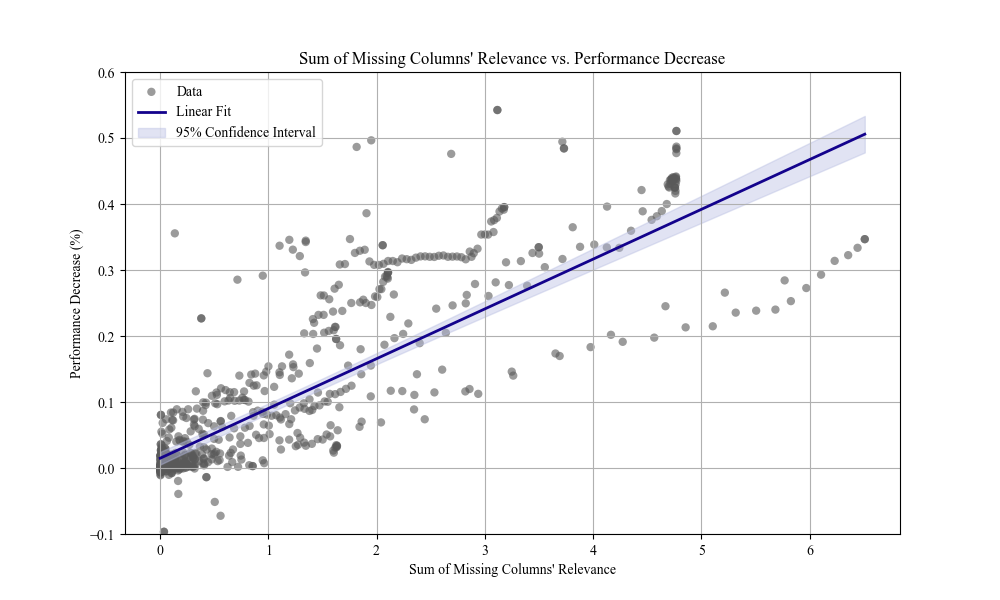
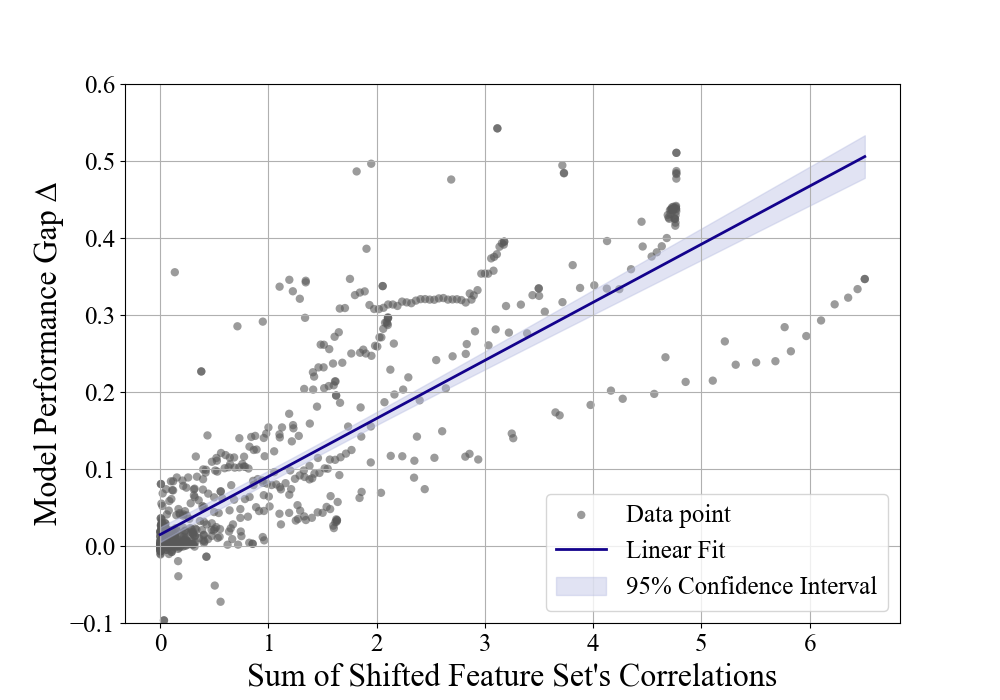
1.30

diff --git a/model/utils.py b/model/utils.py
@@ -94,10 +94,9 @@ def tabular_llm(dataset, model, train_set, test_sets):
         dataset_metadata_path = "../dataset/"+ dataset +"/dataset-metadata.json"
         metadata_path = "../dataset/"+ dataset + "/metadata.json"
 
-        # 检查两个文件是否存在
-        if not (os.path.isfile(dataset_metadata_path) and os.path.isfile(metadata_path)):
-            print("Files do not exist, downloading the dataset...")
-            download_metadata(dataset)
+        # if not (os.path.isfile(dataset_metadata_path) and os.path.isfile(metadata_path)):
+        #     print("Files do not exist, downloading the dataset...")
+        #     download_metadata(dataset)
 
         tabllm = TabLLM()
 

diff --git a/model/tabularLLM/evaluating/light.py b/model/tabularLLM/evaluating/light.py
@@ -12,7 +12,7 @@ class FewShotModelTester():
     def __init__(
         self, 
         name, 
-        model='unipred_state.pt',
+        model='light_state.pt',
         model_path=DEFAULT_MODEL_PATH,
         path=DEFAULT_DATASET_SAVING_PATH,
         output_type='Default', 

diff --git a/run_experiment.py b/run_experiment.py
@@ -1,6 +1,5 @@
 import numpy as np
 import pandas as pd
-from astropy.modeling.tabular import tabular_model
 from sklearn.model_selection import train_test_split
 import argparse
 import json

diff --git a/README.md b/README.md
@@ -132,7 +132,7 @@ You can their details from their papers or **[LAMDA-TALENT](https://github.com/q
 
 #### Tabular LLMs
 1. **[TabLLM](https://arxiv.org/abs/2210.10723)**: A framework that leverages LLMs for efficient tabular data classification.
-2. **[UniPredict](https://arxiv.org/abs/2310.03266)**: A framework that firstly trains on multiple datasets to acquire a rich repository of prior knowledge. UniPredict-Light model that TabFSBench used is available at [Google Drive](https://drive.google.com/file/d/1ABsv0C9HSJ9-M3kpkGRIFEw-4ebKdA3h/view?usp=sharing).
+2. **[UniPredict](https://arxiv.org/abs/2310.03266)**: A framework that firstly trains on multiple datasets to acquire a rich repository of prior knowledge. UniPredict-Light model that TabFSBench used is available at [Google Drive](https://drive.google.com/file/d/1ABsv0C9HSJ9-M3kpkGRIFEw-4ebKdA3h/view?usp=sharing). After downloading the model, place it in `Tabular-Bench/model/tabularLLM/files/unified/models` and rename it to `light_state.pt`.
 
 ### How to Add New Models
 
@@ -144,9 +144,14 @@ TabFSBench provides two methods to evaluate new model on feature-shift experimen
    - Add the method name in the `./model/utils.py`.
    
 ## Experimental Results
-**1. Most models are not robust to feature shifts.**
-![image-20250123120740238](https://s2.loli.net/2025/01/23/O8cApToUu1gLqBV.png)
-**2. Some models exist to sacrifice performance for better robustness.**\
-**3. Closed-environment performance is roughly linearly related to feature-shift performance.**
+**1. Most models have the limited applicability in feature-shift scenarios.**
+<img src="./img/table3.png"  width="1000px">
+
+**2. Shifted features’ importance has a linear trend with model performance degradation.**
+<img src="./img/decrease_sum.png"  width="1000px">
+We use $\Delta$ (described in equation $\Delta  = \frac{(metric_i- metric_0 )}{metric_0}$) to measure the performance decrease. Sum of shifted feature set's correlations refers to the sum of Pearson correlation coefficients of shifted features. Notably, performance decrease and sum of shifted feature set's correlations demonstrate a strong correlation, with a Pearson correlation coefficient of $\rho$ = 0.7405.
+
+**3. Model closed-environment performance correlates with feature-shift performance.**
 <img src="./img/id-fs.jpg"  width="1000px">
 Model Performance under In Distribution vs. Feature Shift. **In Distribution** means that the dataset does not have any degree of feature shift, i.e., no column missing. **Feature Shift** means average model performance in all degrees of feature shifts.
+
